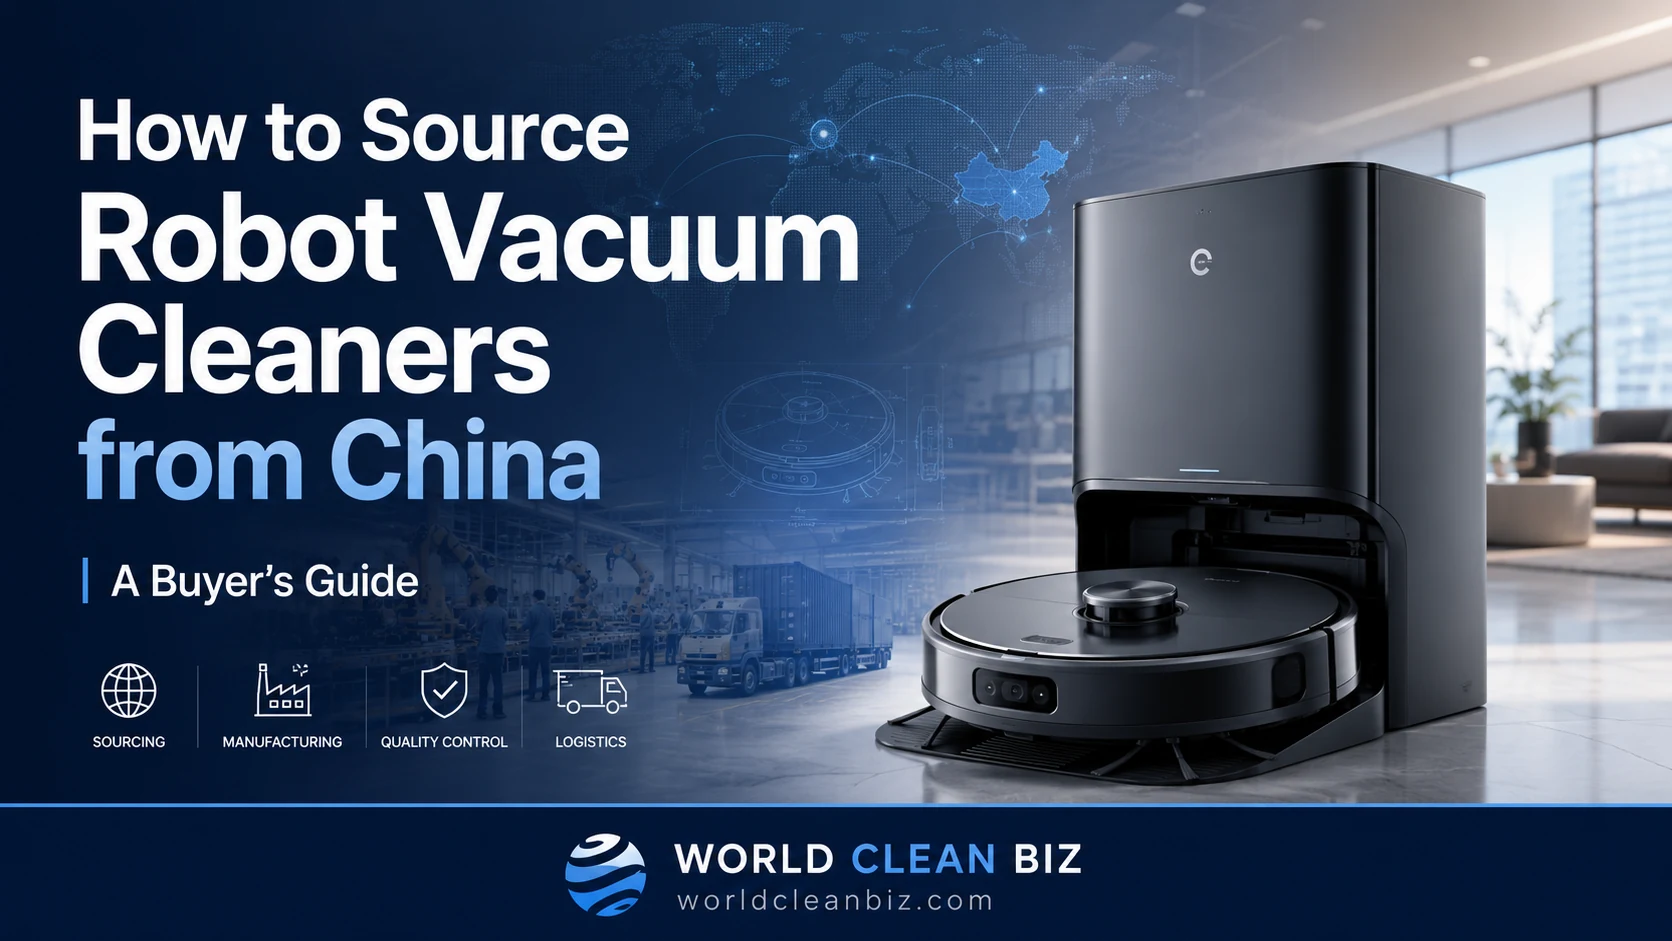
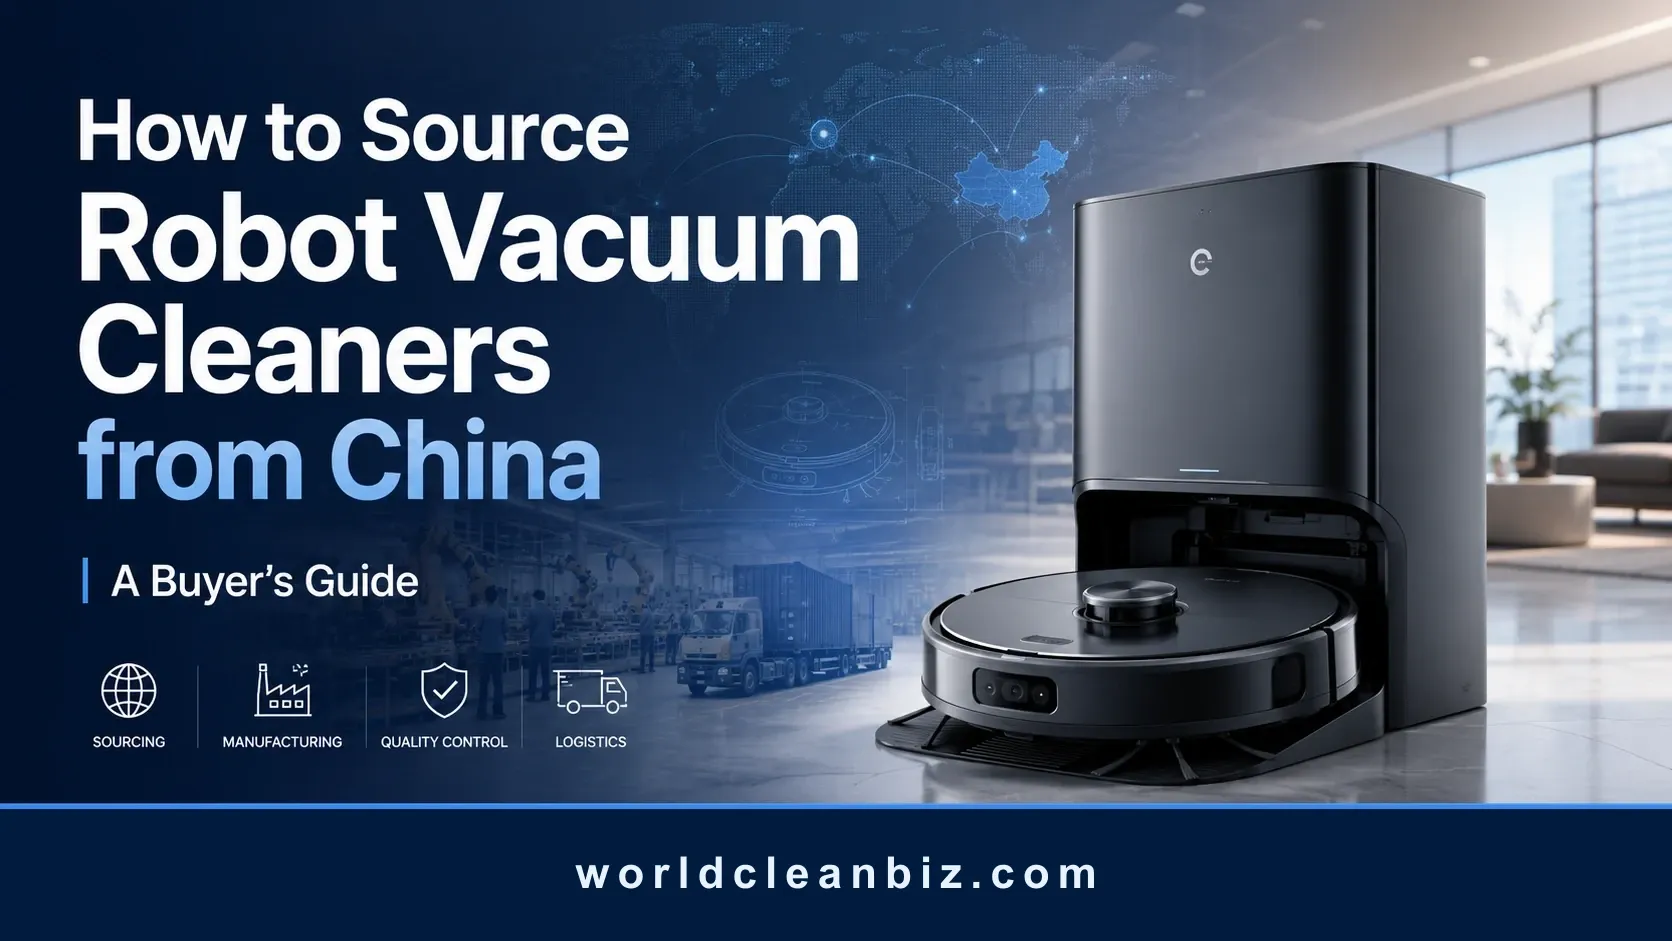
Clean up robot vacuum sourcing article presentation

Changed region(s): [[0.0, 0.8321, 1.0, 0.9862]]

diff --git a/app/blog/[slug]/page.tsx b/app/blog/[slug]/page.tsx
@@ -19,6 +19,11 @@ const relatedArticleOverrides: Record<string, string[]> = {
     "how-to-find-reliable-cleaning-product-suppliers-in-china",
     "aiper-fluidra-pool-robotics-alliance",
     "pool-robotics-new-competitive-table"
+  ],
+  "robot-vacuum-cleaners-from-china": [
+    "how-to-find-reliable-cleaning-product-suppliers-in-china",
+    "robotic-pool-cleaner-manufacturers-china",
+    "the-hidden-front-brushless-motors"
   ]
 };
 